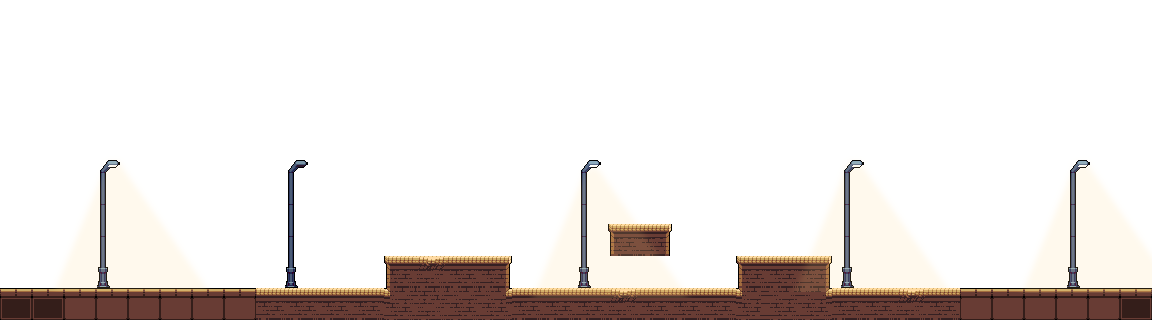
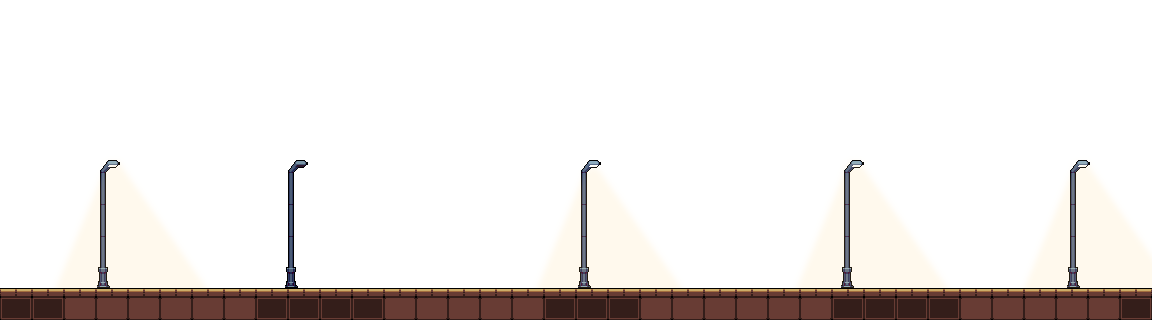
no message

Changed region(s): [[0.2188, 0.7716, 0.8438, 0.9877], [0.5312, 0.679, 0.5938, 0.8025]]

diff --git a/js/audio.js b/js/audio.js
@@ -6,14 +6,15 @@ function initAudio(){
             audio.setAttribute('src','https://s3.eu-west-2.amazonaws.com/stars-are-my-guide.ga/shredded-midi.mp3');
             audio_shoot.setAttribute('src','https://s3.eu-west-2.amazonaws.com/stars-are-my-guide.ga/shoot.mp3');
             audio_blaster.setAttribute('src','https://s3.eu-west-2.amazonaws.com/stars-are-my-guide.ga/blaster.mp3');
+            audio_explosion.setAttribute('src','https://s3.eu-west-2.amazonaws.com/stars-are-my-guide.ga/explosion.mp3');
 
-            //[todo] - set shoot audio on web storage
 
         } else {
             console.log("local");
             audio.setAttribute('src','audio/shredded-midi.mp3');
             audio_shoot.setAttribute('src','audio/shoot.mp3');
             audio_blaster.setAttribute('src','audio/blaster.mp3');
+            audio_explosion.setAttribute('src','audio/explosion.mp3');
         }
         // audio_shoot.volume=.4;
     } 
@@ -48,6 +49,20 @@ function preloadAudio(){
     audio_shoot.load(); 
 
     audiosToLoad++;
+
+    audio_blaster.addEventListener('canplay', loadedAudio);
+    audio_blaster.addEventListener('error', failedtoLoadAudio);
+
+    audio_blaster.load(); 
+
+    audiosToLoad++;
+
+    audio_explosion.addEventListener('canplay', loadedAudio);
+    audio_explosion.addEventListener('error', failedtoLoadAudio);
+
+    audio_explosion.load(); 
+
+    audiosToLoad++;
 }
 
 var audioFailcount=0;
@@ -72,7 +87,7 @@ function loadedAudio(){
         isPlayingAudio_shoot = audio_shoot.currentTime > 0 && !audio_shoot.paused && !audio_shoot.ended && audio_shoot.readyState > audio_shoot.HAVE_CURRENT_DATA;
     
         audio.removeEventListener('canplay', loadedAudio);
-        audio.addEventListener('error', failedtoLoadAudio);
+        audio.removeEventListener('error', failedtoLoadAudio);
         
         if(muted) { audio.volume=0; audio_shoot.volume=0; }
     

diff --git a/js/main.js b/js/main.js
@@ -1,4 +1,6 @@
-var wrap,container,audio,audio_shoot,noAudio=false;
+var wrap,container,
+audio,audio_shoot,audio_blaster,audio_explosion,
+noAudio=false;
 var body = document.body,
 html = document.documentElement;
 var pageHeight = Math.max( body.scrollHeight, body.offsetHeight, 
@@ -563,7 +565,7 @@ function moveFg(){
         
         if(fg.x<-((fg.width*(fgsList.length))-1152-canvas.width)){
             
-            console.log('end');
+            alert('end');
 
             // [todo] - end of foregrounds reached, play ending! 
             collided=true;
@@ -623,6 +625,21 @@ function setFgIndex(){
         }
         if(fgsImgs[i].id == "05") {
             fgsImgIndex[4] = i;
+        }
+        if(fgsImgs[i].id == "06") {
+            fgsImgIndex[5] = i;
+        }
+        if(fgsImgs[i].id == "07") {
+            fgsImgIndex[6] = i;
+        }
+        if(fgsImgs[i].id == "08") {
+            fgsImgIndex[7] = i;
+        }
+        if(fgsImgs[i].id == "09") {
+            fgsImgIndex[8] = i;
+        }
+        if(fgsImgs[i].id == "01") {
+            fgsImgIndex[9] = i;
         }
         
     }
@@ -1254,6 +1271,7 @@ function enemyAttack(){
             // [todo]- need to have different SFX sound per enemyIndex:
             if(whichEnemy=="BattleCar"){
                 audio_shoot.play();
+
             }
             if(whichEnemy=="CyberBike"){
                 audio_blaster.play();
@@ -1295,6 +1313,8 @@ function renderEnemy(whichEnemy) {
     }
 
     if(isEnemy.exploding){
+        audio_explosion.play();
+
         ctxEnemy.clearRect(0, 0, canvas.width, canvas.height);
         // play explosion!
         spritesheetW.explosionW=explosion.width;

diff --git a/js/fg-vars.js b/js/fg-vars.js
@@ -7,7 +7,8 @@ var fgsList = [
 {id:"02", url:"images/Foreground/fg0.png", x:0,y:0},
 {id:"03", url:"images/Foreground/fg1.png", x:fg.width,y:0},
 {id:"04", url:"images/Foreground/fg2.png", x:fg.width*2,y:0},
-{id:"05", url:"images/Foreground/fg3.png", x:fg.width*3,y:0}
+{id:"05", url:"images/Foreground/fg3.png", x:fg.width*3,y:0},
+{id:"06", url:"images/Foreground/fg4.png", x:fg.width*4,y:0}
 // {url:"images/Foreground/fg1.png", x:fg.width*4,y:0},
 // {url:"images/Foreground/fg0.png", x:fg.width*5,y:0},
 // {url:"images/Foreground/fg0.png", x:fg.width*6,y:0},
@@ -20,10 +21,13 @@ var fgsImgIndex = {}
 
 	
 var obstacle = [
-	{x:(1152)+384,y:(32*8),w:(32*4),h:32,initX:(1152)+384},
-	{x:(1152)+608,y:(32*7),w:(32*2),h:32,initX:(1152)+608},
-	{x:(1152)+736,y:(32*8),w:(32*3),h:32,initX:(1152)+736},
-	{x:(1152*2)+384,y:(32*8),w:(32*4),h:32,initX:(1152*2)+384},
-	{x:(1152*2)+608,y:(32*8),w:(32*2),h:32,initX:(1152*2)+608},
-	{x:(1152*2)+736,y:(32*8),w:(32*3),h:32,initX:(1152*2)+736}
+	{x:(fg.width)+384,y:(32*8),w:(32*4),h:32,initX:(fg.width)+384},
+	{x:(fg.width)+608,y:(32*7),w:(32*2),h:32,initX:(fg.width)+608},
+	{x:(fg.width)+736,y:(32*8),w:(32*3),h:32,initX:(fg.width)+736},
+	{x:(fg.width*2)+384,y:(32*8),w:(32*4),h:32,initX:(fg.width*2)+384},
+	{x:(fg.width*2)+608,y:(32*8),w:(32*2),h:32,initX:(fg.width*2)+608},
+	{x:(fg.width*2)+736,y:(32*8),w:(32*3),h:32,initX:(fg.width*2)+736},
+	{x:(fg.width*4)+64,y:(32*8),w:(32),h:32,initX:(fg.width*4)+64},
+	{x:(fg.width*4)+128,y:(32*7),w:(32*4),h:16,initX:(fg.width*4)+128},
+	{x:(fg.width*4)+320,y:(32*6),w:(32*2),h:32,initX:(fg.width*4)+320},
 ]

diff --git a/js/init.js b/js/init.js
@@ -44,9 +44,12 @@ function init()
     wrap = document.getElementById("wrap");
     container = document.getElementById("container");
     footer = document.getElementById("footer");
+
+    //[audio]
     audio = document.getElementById("audio");
     audio_shoot = document.getElementById("audio-shoot");
     audio_blaster = document.getElementById("audio-blaster");
+    audio_explosion = document.getElementById("audio-explosion");
     
 
 

diff --git a/index.html b/index.html
@@ -165,6 +165,7 @@
     <audio id="audio"></audio>
     <audio id="audio-shoot"></audio>
     <audio id="audio-blaster"></audio>
+    <audio id="audio-explosion"></audio>
 
 
     <div id="wrap" class="paused">
